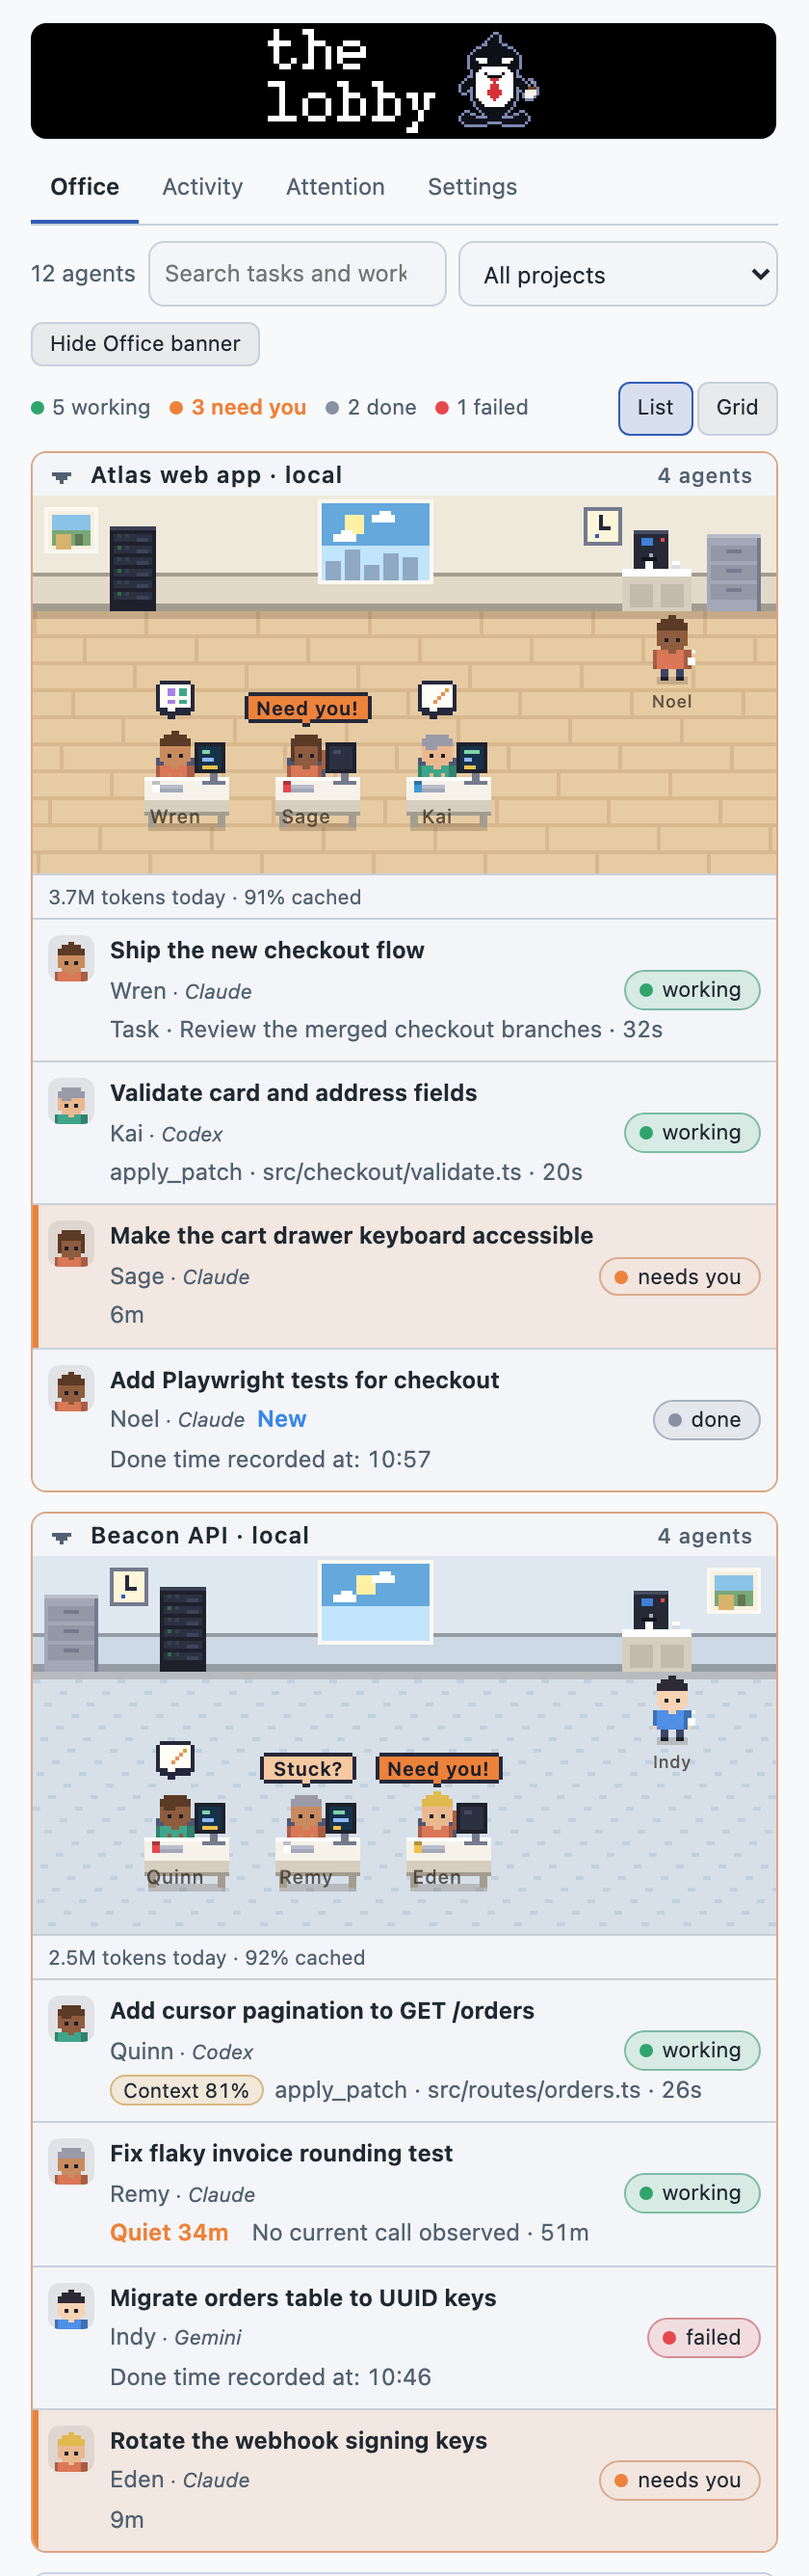
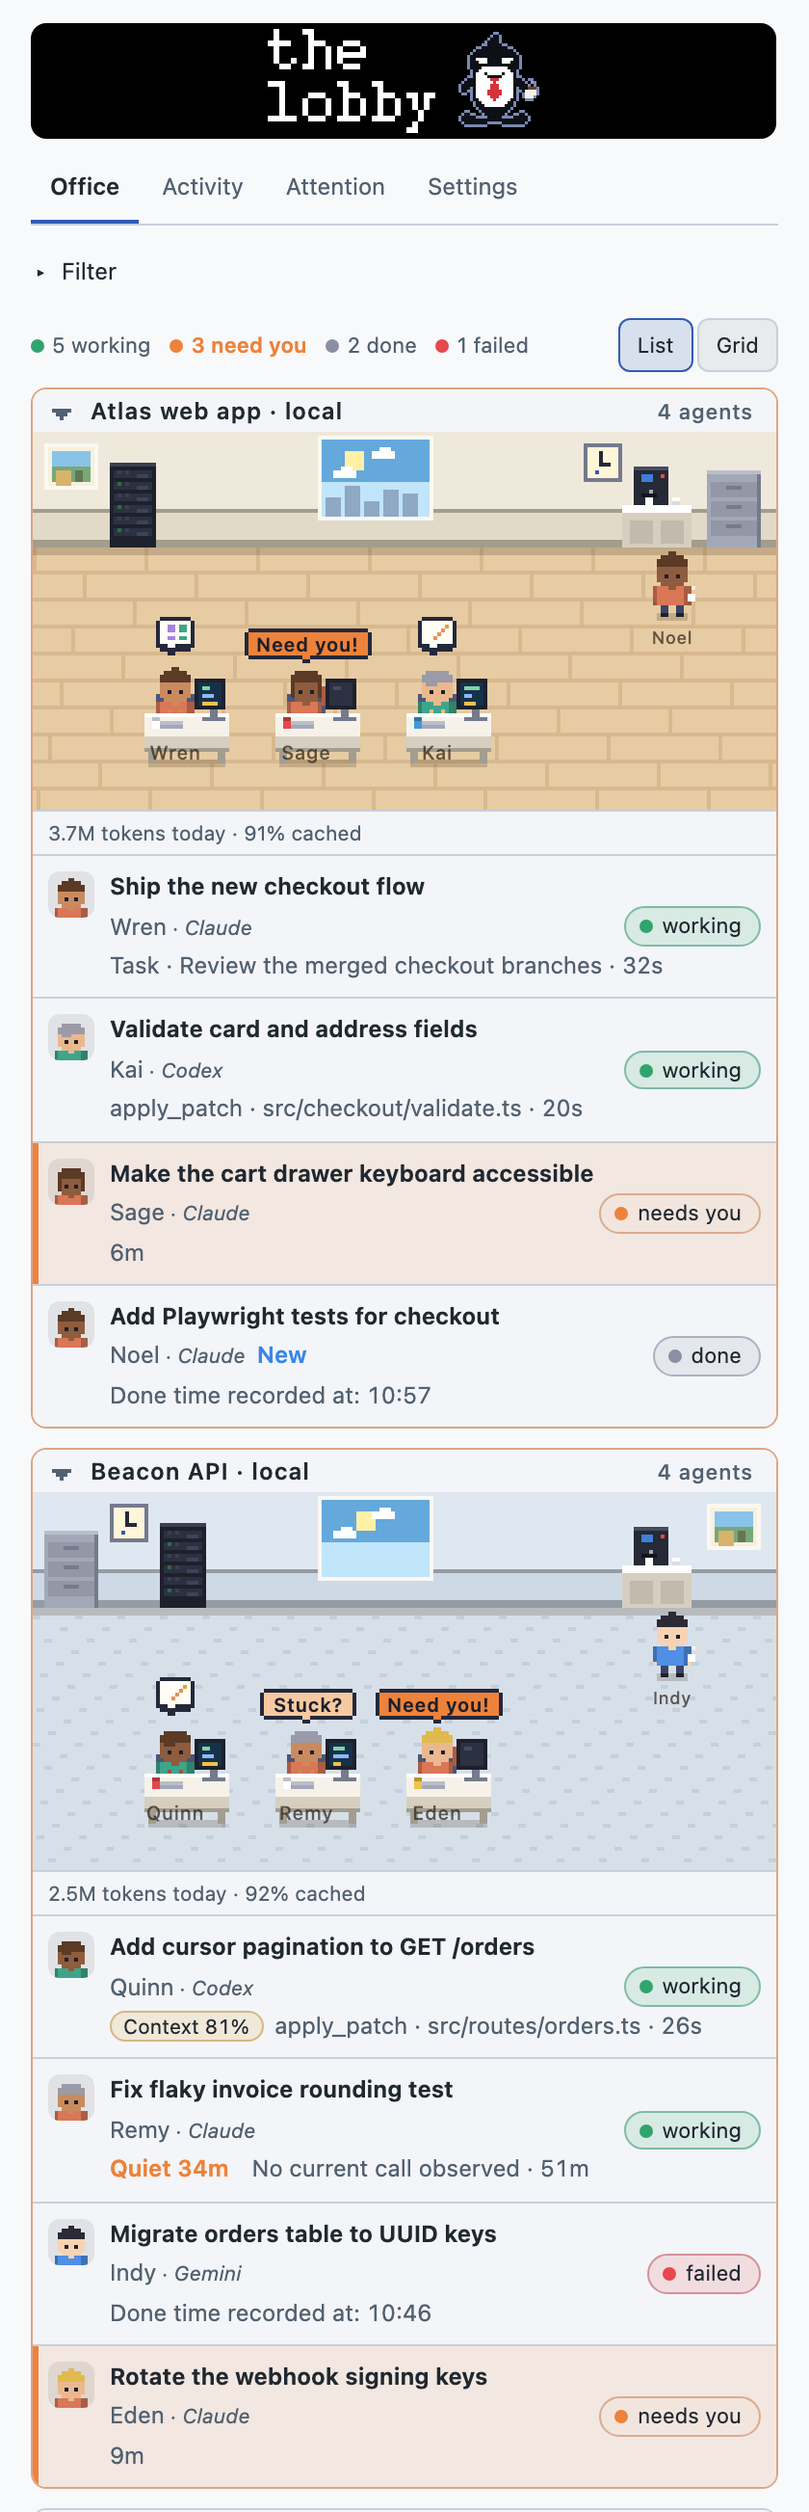
docs: refresh 1.3 fixture media and evidence

Changed region(s): [[0.031, 0.0, 0.9595, 0.9946]]

diff --git a/docs/index.html b/docs/index.html
@@ -138,7 +138,7 @@
 
     <div class="gallery" aria-label="Attention and notification controls">
       <figure class="shot">
-        <div class="frame tall"><a href="images/attention-inbox.png" title="Open the full-size image"><img src="images/attention-inbox.png" width="840" height="1830" loading="lazy" alt="Compact Attention task rows, Filter disclosure and a counted collapsed Finished group."></a></div>
+        <div class="frame tall"><a href="images/attention-inbox.png" title="Open the full-size image"><img src="images/attention-inbox.png" width="840" height="942" loading="lazy" alt="Compact Attention task rows, Filter disclosure and a counted collapsed Finished group."></a></div>
         <figcaption>Compact task-first queue; open a title for details or use the separate agent action.</figcaption>
       </figure>
       <figure class="shot">

diff --git a/tasks/todo.md b/tasks/todo.md
@@ -201,9 +201,11 @@ Verified (2026-11-21): RED exposed a missing quiet-state message when a working 
 ### 19 — Refresh docs/media and final regression evidence (M)
 
 - [x] Update the existing task-12 docs/website work for the selected layout and Settings notification location; keep contributor credit, privacy and unreleased notices accurate.
-- [ ] Regenerate public fixture media, check budgets/links/mobile rendering, and rerun the repository's final unit/type/plugin/browser verification commands.
-- [ ] Record Terra approval and actual trial outcomes; leave unavailable paired-server/platform and accessibility-dependent checks explicitly unverified.
+- [x] Regenerate public fixture media, check budgets/links/mobile rendering, and rerun the repository's final unit/type/plugin/browser verification commands.
+- [x] Record Terra approval and actual trial outcomes; leave unavailable paired-server/platform and accessibility-dependent checks explicitly unverified.
 
 Dependencies: 18. Deliver as two bounded batches: docs (README.md, docs/guide.html, docs/index.html, CHANGELOG.md, tasks/todo.md), then existing fixture media scripts/assets. Verification: existing media/size/link/render commands plus final review. Scope: M per batch. No version bump, publication or installed-plugin switch without the separate release instruction.
 
 Docs batch evidence (2026-11-21): README, architecture, landing page, guide/FAQ, Unreleased changelog, listing draft, roadmap and screenshot guide now describe compact task-first Attention rows, title-to-details versus separate validated Open agent, explicit drawer review, collapsed/counted Finished/search behavior, shared native filters and quiet states. Existing published 1.2.0 notices, 1.3 unreleased wording, contributor credit, privacy disclosures, Settings notification controls and shared banner preference remain intact. Local HTML links, image references and fragment anchors pass; media refresh and full integration verification are still pending. Terra has approved the earlier implementation slices 15–18; no actual live trial is claimed.
+
+Task19 final evidence (2026-11-21): docs commit `731ba43`; regenerated synthetic panel and catalog images using `python3 scripts/shots/media.py` and `python3 scripts/media/render.py`. Visual inspection: `docs/images/attention-inbox.png` shows compact task rows, Filter disclosure and counted collapsed Finished; `docs/images/catalog/attention.png` shows the same layout in the six-image catalog poster; `docs/images/office.png` retains the pixel Office. `python3 scripts/shots/sizes.py` passes with catalog assets totaling 3,395 KB / 8 MB and all dimensions within existing rules. `python3 scripts/shots/run.py` passes 126/126; `/Applications/Orca.app/Contents/Resources/bin/orca plugin types . --json`, `orca plugin test .` (238/238), `npx --yes --package typescript tsc --noEmit`, `orca plugin check . --json` (valid, no errors), `git diff --check`, HTML local link/anchor/image checks, and desktop 1440px/mobile 390px page render checks pass. Browser screenshots: `/tmp/lobby-index.html-desktop-final.png`, `/tmp/lobby-index.html-mobile-final.png`, `/tmp/lobby-guide.html-desktop-final.png`, `/tmp/lobby-guide.html-mobile-final.png`. Terra approved tasks15–18; no actual development-copy find/open/review or notification trial was performed in this documentation/media task, so Checkpoints B/C, accessibility-dependent manual review, real paired-server, Windows and Linux remain unverified.

diff --git a/scripts/shots/README.md b/scripts/shots/README.md
@@ -108,28 +108,27 @@ encodes a GIF (ffmpeg palette) and a WebP (`gif2webp`).
 Current sizes (from `python3 scripts/shots/sizes.py`):
 
 ```
-activity.png                  1800 x 1613       196 KB
-attention-inbox.png            840 x 1830       144 KB
-attention.png                 1800 x 1613       205 KB
+activity.png                  1800 x 1745       187 KB
+attention-inbox.png            840 x 942         60 KB
+attention.png                 1800 x 1745       197 KB
 bubbles.png                    840 x 932         45 KB
-catalog/activity.png          1600 x 1000       211 KB
-catalog/attention.png         1600 x 1000       175 KB
-catalog/context.png           1600 x 1000       184 KB
+catalog/activity.png          1600 x 1000       203 KB
+catalog/attention.png         1600 x 1000       150 KB
+catalog/context.png           1600 x 1000       179 KB
 catalog/cover.png             1600 x 1000       174 KB
-catalog/drawer.png            1600 x 1000       177 KB
-catalog/office.png            1600 x 1000       217 KB
-catalog/palettes.png          1600 x 1000       197 KB
-cover.png                     1280 x 640        135 KB
-drawer.png                     840 x 1900       150 KB
+catalog/drawer.png            1600 x 1000       171 KB
+catalog/office.png            1600 x 1000       210 KB
+catalog/palettes.png          1600 x 1000       188 KB
+cover.png                     1280 x 640        130 KB
 icon.png                       256 x 256         34 KB
 notification-controls.png      840 x 1234       115 KB
-office-grid.png               1800 x 2523       350 KB
-office-light.png               840 x 2672       252 KB
-office.gif                     420 x 635         88 KB
-office.png                     840 x 2672       250 KB
-office.webp                    420 x 635         92 KB
+office-grid.png               1800 x 2458       333 KB
+office-light.png               840 x 2606       237 KB
+office.png                     840 x 2606       236 KB
+office.gif                     420 x 602         86 KB
+office.webp                    420 x 602         84 KB
 settings.png                   840 x 2241       233 KB
-total                                          3625 KB
+total                                          3395 KB
 ```
 
 ## Files
